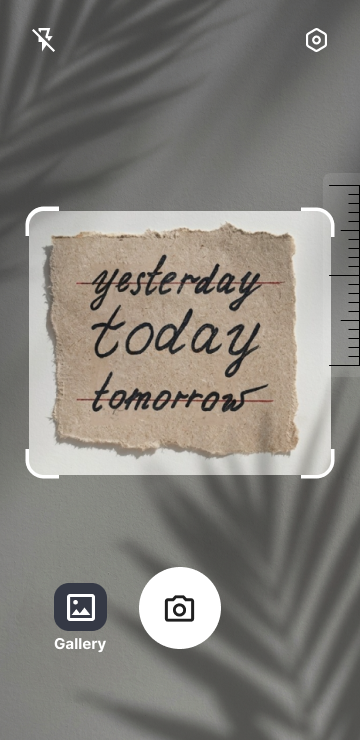
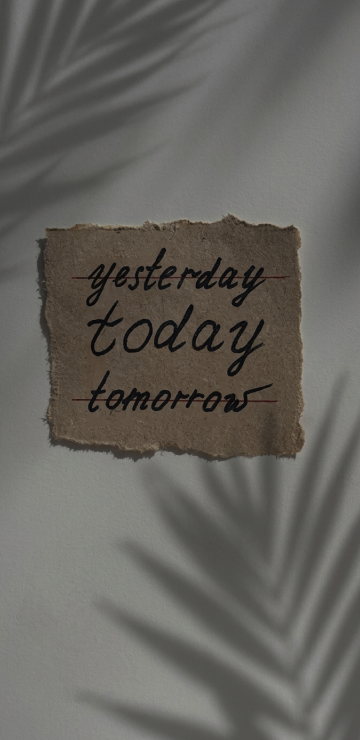
fix: resolve provider outside widget tree exception and update clean camera background asset

diff --git a/lib/screens/settings/settings_screen.dart b/lib/screens/settings/settings_screen.dart
@@ -20,13 +20,10 @@ class SettingsScreen extends StatefulWidget {
 class _SettingsScreenState extends State<SettingsScreen> {
   bool _autoPlayAudio = false;
 
-  void _showLogoutDialog() {
-    final isDark = Theme.of(context).brightness == Brightness.dark;
-    final strings = AppStrings.of(context);
-
+  void _showLogoutDialog(BuildContext context, AppStrings strings, bool isDark) {
     showDialog(
       context: context,
-      builder: (context) => AlertDialog(
+      builder: (dialogContext) => AlertDialog(
         backgroundColor: isDark ? const Color(0xFF1E1E1E) : Colors.white,
         shape: RoundedRectangleBorder(
           borderRadius: BorderRadius.circular(16),
@@ -47,7 +44,7 @@ class _SettingsScreenState extends State<SettingsScreen> {
         ),
         actions: [
           TextButton(
-            onPressed: () => Navigator.of(context).pop(),
+            onPressed: () => Navigator.of(dialogContext).pop(),
             child: Text(
               strings.cancel,
               style: TextStyle(
@@ -65,7 +62,7 @@ class _SettingsScreenState extends State<SettingsScreen> {
               ),
             ),
             onPressed: () {
-              Navigator.of(context).pop(); // Close dialog
+              Navigator.of(dialogContext).pop(); // Close dialog
               Navigator.of(context).pushAndRemoveUntil(
                 MaterialPageRoute(builder: (context) => const LoginScreen()),
                 (route) => false,
@@ -82,16 +79,14 @@ class _SettingsScreenState extends State<SettingsScreen> {
   }
 
   Widget _buildCard({
+    required bool isDark,
+    required bool isHighContrast,
     required Widget icon,
     required Widget child,
     VoidCallback? onTap,
     Widget? trailing,
     bool isDestructive = false,
   }) {
-    final themeProvider = context.watch<ThemeProvider>();
-    final isDark = themeProvider.isDark(context);
-    final isHighContrast = themeProvider.isHighContrast;
-
     final borderColor = isDestructive
         ? const Color(0xFFEF4444)
         : (isHighContrast
@@ -186,6 +181,8 @@ class _SettingsScreenState extends State<SettingsScreen> {
 
               // 1. Email Card
               _buildCard(
+                isDark: isDark,
+                isHighContrast: isHighContrast,
                 icon: Icon(
                   Icons.mail_outline_rounded,
                   color: isDark ? Colors.white : Colors.black,
@@ -219,6 +216,8 @@ class _SettingsScreenState extends State<SettingsScreen> {
 
               // 2. Change Password
               _buildCard(
+                isDark: isDark,
+                isHighContrast: isHighContrast,
                 icon: Icon(
                   Icons.lock_outline_rounded,
                   color: isDark ? Colors.white : Colors.black,
@@ -250,6 +249,8 @@ class _SettingsScreenState extends State<SettingsScreen> {
 
               // 3. History
               _buildCard(
+                isDark: isDark,
+                isHighContrast: isHighContrast,
                 icon: Icon(
                   Icons.calendar_month_outlined,
                   color: isDark ? Colors.white : Colors.black,
@@ -286,6 +287,8 @@ class _SettingsScreenState extends State<SettingsScreen> {
 
               // 4. Appearance
               _buildCard(
+                isDark: isDark,
+                isHighContrast: isHighContrast,
                 icon: Text(
                   'Aa',
                   style: TextStyle(
@@ -325,6 +328,8 @@ class _SettingsScreenState extends State<SettingsScreen> {
 
               // 5. Auto-Play Audio Switch
               _buildCard(
+                isDark: isDark,
+                isHighContrast: isHighContrast,
                 icon: Icon(
                   Icons.volume_up_outlined,
                   color: isDark ? Colors.white : Colors.black,
@@ -390,59 +395,65 @@ class _SettingsScreenState extends State<SettingsScreen> {
                       children: [
                         // Indonesian Radio Pill
                         Expanded(
-                          child: GestureDetector(
-                            onTap: () {
-                              context.read<LanguageProvider>().setLanguage('Indonesian');
-                            },
-                            child: Container(
-                              padding: const EdgeInsets.symmetric(
-                                horizontal: 12,
-                                vertical: 10,
-                              ),
-                              decoration: BoxDecoration(
-                                color: isDark ? const Color(0xFF2A2A2A) : Colors.white,
-                                borderRadius: BorderRadius.circular(10),
-                                border: Border.all(
-                                  color: isDark ? const Color(0xFF555555) : Colors.black,
-                                  width: 1.0,
+                          child: Material(
+                            color: Colors.transparent,
+                            child: InkWell(
+                              borderRadius: BorderRadius.circular(10),
+                              onTap: () {
+                                context.read<LanguageProvider>().setLanguage('Indonesian');
+                              },
+                              child: Container(
+                                padding: const EdgeInsets.symmetric(
+                                  horizontal: 12,
+                                  vertical: 10,
                                 ),
-                              ),
-                              child: Row(
-                                mainAxisAlignment:
-                                    MainAxisAlignment.spaceBetween,
-                                children: [
-                                  Text(
-                                    strings.indonesian,
-                                    style: TextStyle(
-                                      color: isDark ? Colors.white : Colors.black,
-                                      fontSize: 13,
-                                      fontWeight: FontWeight.w500,
-                                    ),
+                                decoration: BoxDecoration(
+                                  color: isDark ? const Color(0xFF2A2A2A) : Colors.white,
+                                  borderRadius: BorderRadius.circular(10),
+                                  border: Border.all(
+                                    color: isHighContrast
+                                        ? (isDark ? Colors.white : Colors.black)
+                                        : (isDark ? const Color(0xFF555555) : Colors.black),
+                                    width: isHighContrast ? 2.0 : 1.0,
                                   ),
-                                  Container(
-                                    width: 16,
-                                    height: 16,
-                                    decoration: BoxDecoration(
-                                      shape: BoxShape.circle,
-                                      border: Border.all(
+                                ),
+                                child: Row(
+                                  mainAxisAlignment:
+                                      MainAxisAlignment.spaceBetween,
+                                  children: [
+                                    Text(
+                                      strings.indonesian,
+                                      style: TextStyle(
                                         color: isDark ? Colors.white : Colors.black,
-                                        width: 1.5,
+                                        fontSize: 13,
+                                        fontWeight: FontWeight.w600,
                                       ),
                                     ),
-                                    child: selectedLanguage == 'Indonesian'
-                                        ? Center(
-                                            child: Container(
-                                              width: 8,
-                                              height: 8,
-                                              decoration: BoxDecoration(
-                                                color: isDark ? Colors.white : Colors.black,
-                                                shape: BoxShape.circle,
+                                    Container(
+                                      width: 18,
+                                      height: 18,
+                                      decoration: BoxDecoration(
+                                        shape: BoxShape.circle,
+                                        border: Border.all(
+                                          color: isDark ? Colors.white : Colors.black,
+                                          width: 1.5,
+                                        ),
+                                      ),
+                                      child: selectedLanguage == 'Indonesian'
+                                          ? Center(
+                                              child: Container(
+                                                width: 9,
+                                                height: 9,
+                                                decoration: BoxDecoration(
+                                                  color: isDark ? Colors.white : Colors.black,
+                                                  shape: BoxShape.circle,
+                                                ),
                                               ),
-                                            ),
-                                          )
-                                        : null,
-                                  ),
-                                ],
+                                            )
+                                          : null,
+                                    ),
+                                  ],
+                                ),
                               ),
                             ),
                           ),
@@ -451,59 +462,65 @@ class _SettingsScreenState extends State<SettingsScreen> {
 
                         // English Radio Pill
                         Expanded(
-                          child: GestureDetector(
-                            onTap: () {
-                              context.read<LanguageProvider>().setLanguage('English');
-                            },
-                            child: Container(
-                              padding: const EdgeInsets.symmetric(
-                                horizontal: 12,
-                                vertical: 10,
-                              ),
-                              decoration: BoxDecoration(
-                                color: isDark ? const Color(0xFF2A2A2A) : Colors.white,
-                                borderRadius: BorderRadius.circular(10),
-                                border: Border.all(
-                                  color: isDark ? const Color(0xFF555555) : Colors.black,
-                                  width: 1.0,
+                          child: Material(
+                            color: Colors.transparent,
+                            child: InkWell(
+                              borderRadius: BorderRadius.circular(10),
+                              onTap: () {
+                                context.read<LanguageProvider>().setLanguage('English');
+                              },
+                              child: Container(
+                                padding: const EdgeInsets.symmetric(
+                                  horizontal: 12,
+                                  vertical: 10,
                                 ),
-                              ),
-                              child: Row(
-                                mainAxisAlignment:
-                                    MainAxisAlignment.spaceBetween,
-                                children: [
-                                  Text(
-                                    strings.english,
-                                    style: TextStyle(
-                                      color: isDark ? Colors.white : Colors.black,
-                                      fontSize: 13,
-                                      fontWeight: FontWeight.w500,
-                                    ),
+                                decoration: BoxDecoration(
+                                  color: isDark ? const Color(0xFF2A2A2A) : Colors.white,
+                                  borderRadius: BorderRadius.circular(10),
+                                  border: Border.all(
+                                    color: isHighContrast
+                                        ? (isDark ? Colors.white : Colors.black)
+                                        : (isDark ? const Color(0xFF555555) : Colors.black),
+                                    width: isHighContrast ? 2.0 : 1.0,
                                   ),
-                                  Container(
-                                    width: 16,
-                                    height: 16,
-                                    decoration: BoxDecoration(
-                                      shape: BoxShape.circle,
-                                      border: Border.all(
+                                ),
+                                child: Row(
+                                  mainAxisAlignment:
+                                      MainAxisAlignment.spaceBetween,
+                                  children: [
+                                    Text(
+                                      strings.english,
+                                      style: TextStyle(
                                         color: isDark ? Colors.white : Colors.black,
-                                        width: 1.5,
+                                        fontSize: 13,
+                                        fontWeight: FontWeight.w600,
                                       ),
                                     ),
-                                    child: selectedLanguage == 'English'
-                                        ? Center(
-                                            child: Container(
-                                              width: 8,
-                                              height: 8,
-                                              decoration: BoxDecoration(
-                                                color: isDark ? Colors.white : Colors.black,
-                                                shape: BoxShape.circle,
+                                    Container(
+                                      width: 18,
+                                      height: 18,
+                                      decoration: BoxDecoration(
+                                        shape: BoxShape.circle,
+                                        border: Border.all(
+                                          color: isDark ? Colors.white : Colors.black,
+                                          width: 1.5,
+                                        ),
+                                      ),
+                                      child: selectedLanguage == 'English'
+                                          ? Center(
+                                              child: Container(
+                                                width: 9,
+                                                height: 9,
+                                                decoration: BoxDecoration(
+                                                  color: isDark ? Colors.white : Colors.black,
+                                                  shape: BoxShape.circle,
+                                                ),
                                               ),
-                                            ),
-                                          )
-                                        : null,
-                                  ),
-                                ],
+                                            )
+                                          : null,
+                                    ),
+                                  ],
+                                ),
                               ),
                             ),
                           ),
@@ -523,6 +540,8 @@ class _SettingsScreenState extends State<SettingsScreen> {
 
               // 7. FAQ
               _buildCard(
+                isDark: isDark,
+                isHighContrast: isHighContrast,
                 icon: Icon(
                   Icons.help_outline_rounded,
                   color: isDark ? Colors.white : Colors.black,
@@ -554,6 +573,8 @@ class _SettingsScreenState extends State<SettingsScreen> {
 
               // 8. About
               _buildCard(
+                isDark: isDark,
+                isHighContrast: isHighContrast,
                 icon: Icon(
                   Icons.info_outline_rounded,
                   color: isDark ? Colors.white : Colors.black,
@@ -591,6 +612,8 @@ class _SettingsScreenState extends State<SettingsScreen> {
 
               // 9. LOG OUT BUTTON
               _buildCard(
+                isDark: isDark,
+                isHighContrast: isHighContrast,
                 isDestructive: true,
                 icon: const Icon(
                   Icons.logout_rounded,
@@ -610,7 +633,7 @@ class _SettingsScreenState extends State<SettingsScreen> {
                   color: Color(0xFFEF4444),
                   size: 28,
                 ),
-                onTap: _showLogoutDialog,
+                onTap: () => _showLogoutDialog(context, strings, isDark),
               ),
 
               const SizedBox(height: 36),

diff --git a/lib/core/app_strings.dart b/lib/core/app_strings.dart
@@ -7,8 +7,10 @@ class AppStrings {
 
   const AppStrings({required this.isIndonesian});
 
-  static AppStrings of(BuildContext context) {
-    final languageProvider = context.watch<LanguageProvider>();
+  static AppStrings of(BuildContext context, {bool listen = true}) {
+    final languageProvider = listen
+        ? Provider.of<LanguageProvider>(context, listen: true)
+        : Provider.of<LanguageProvider>(context, listen: false);
     return AppStrings(isIndonesian: languageProvider.isIndonesian);
   }
 
